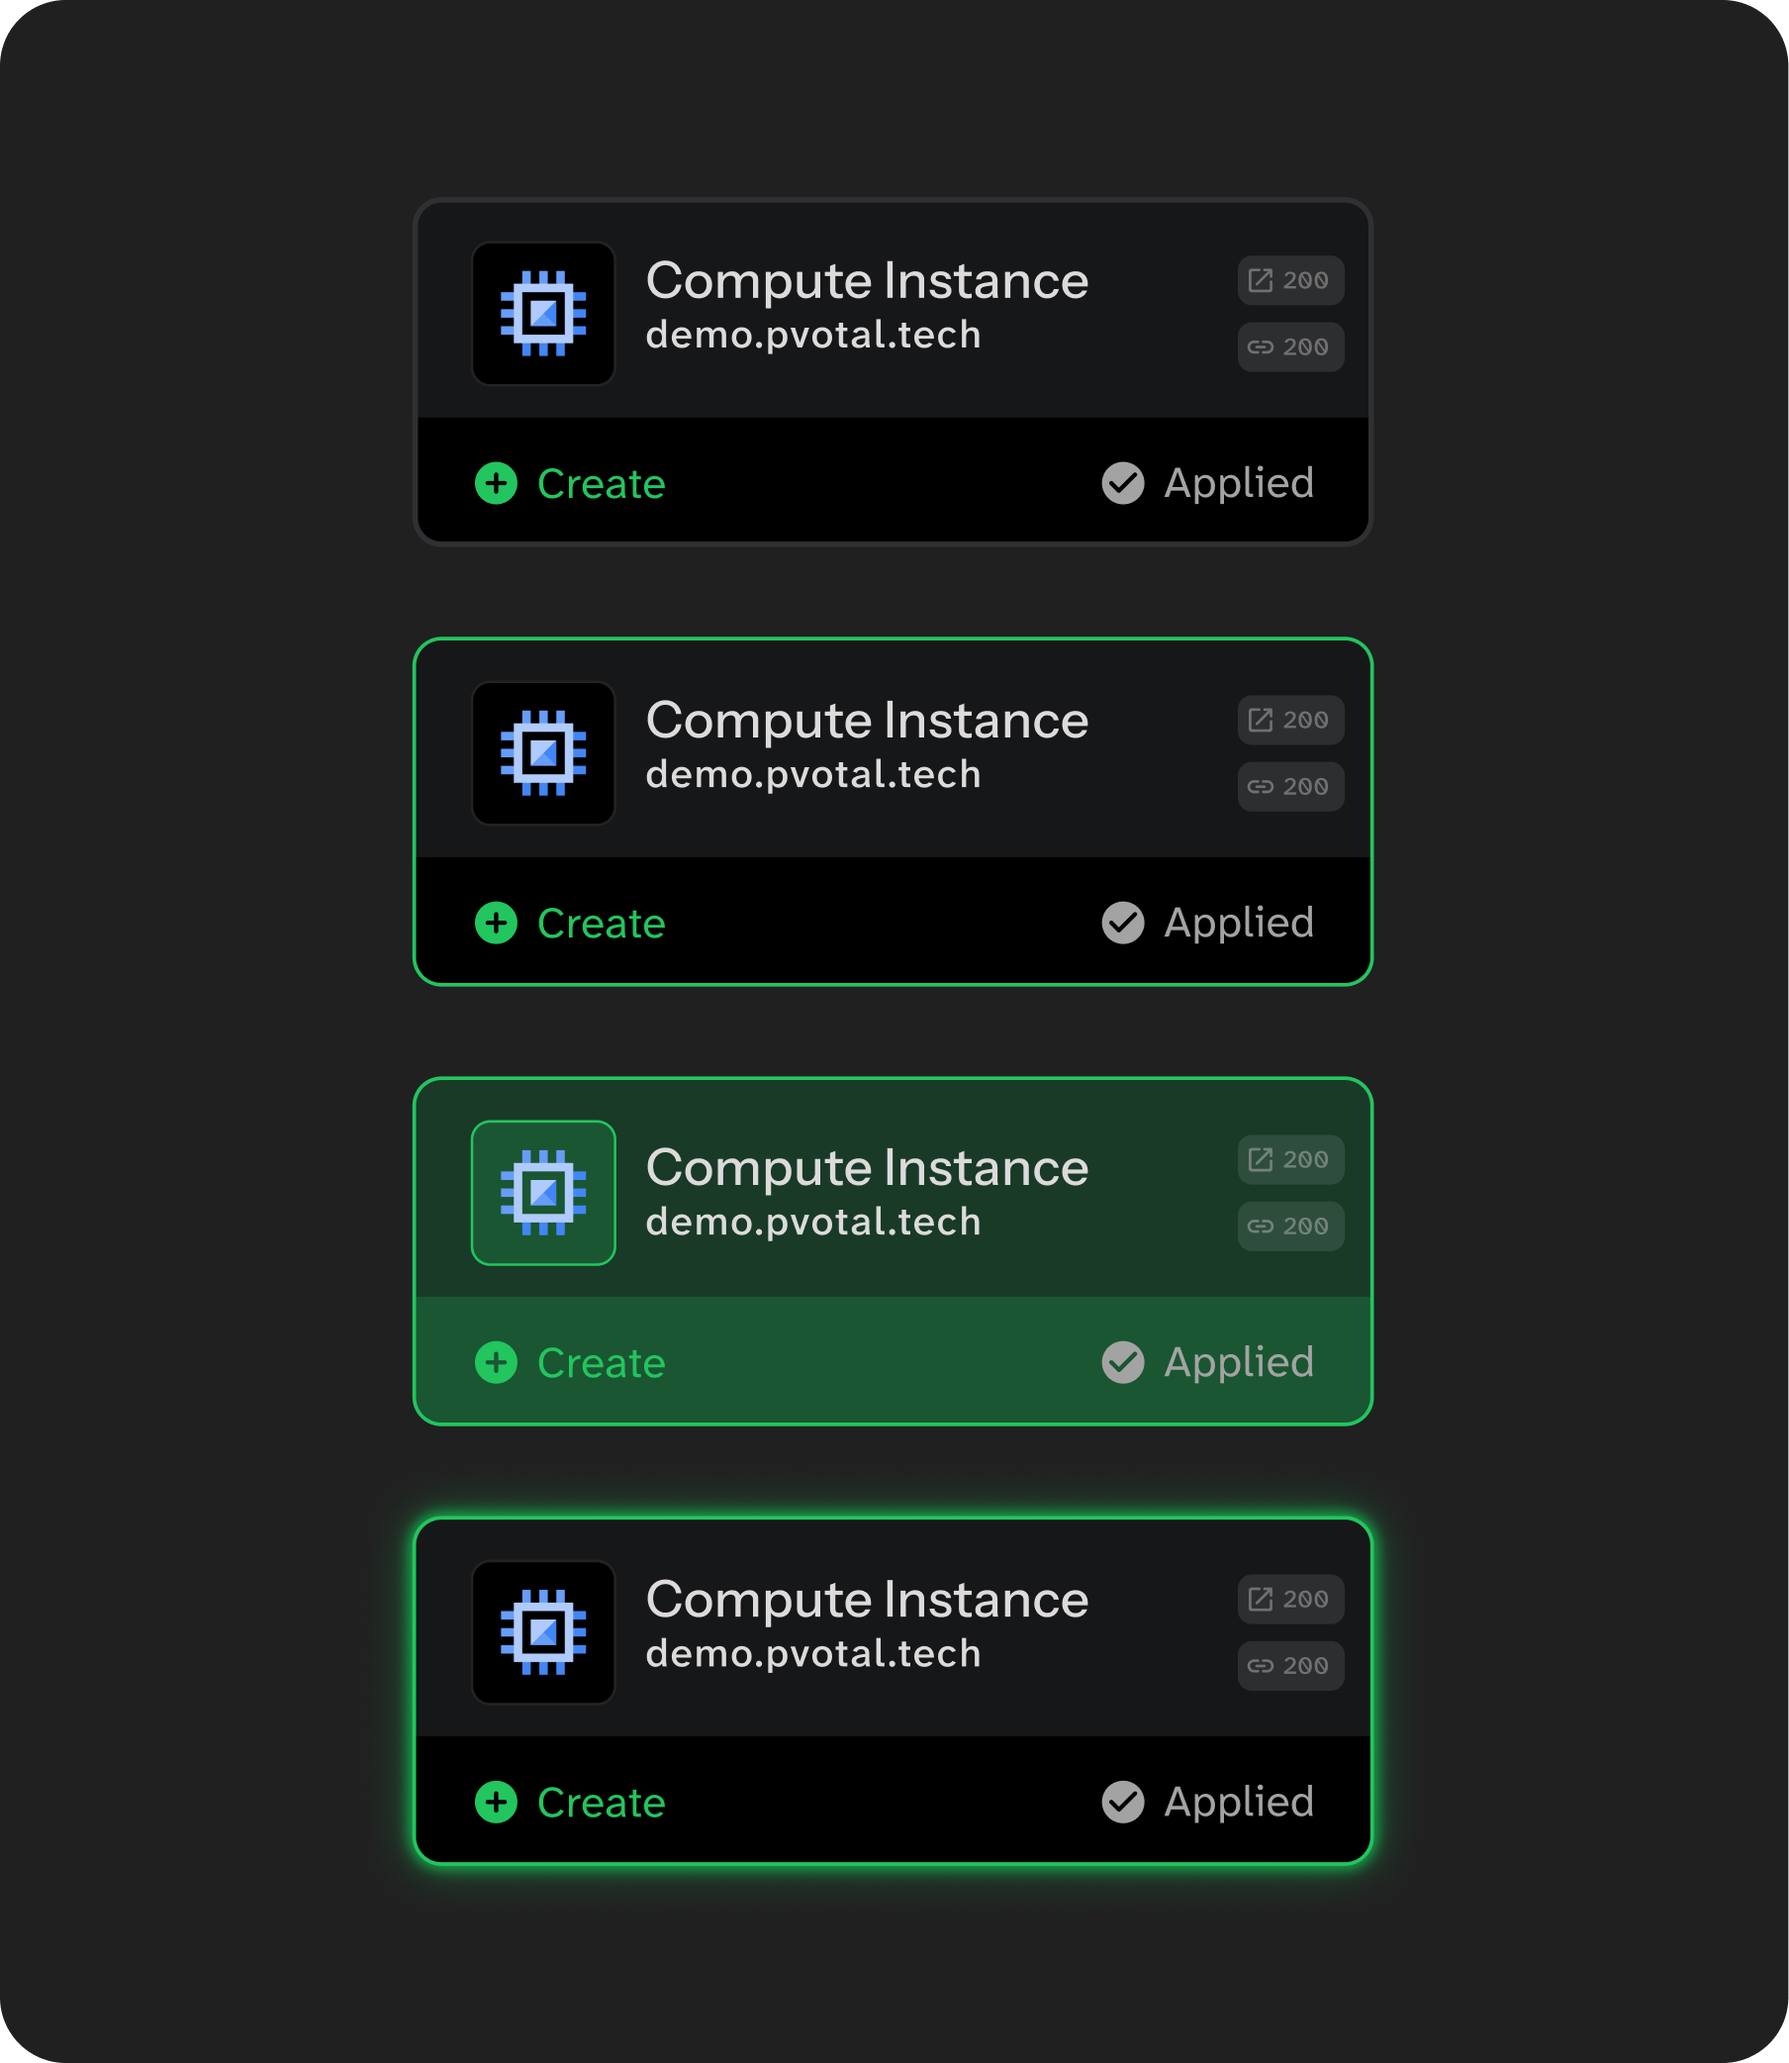
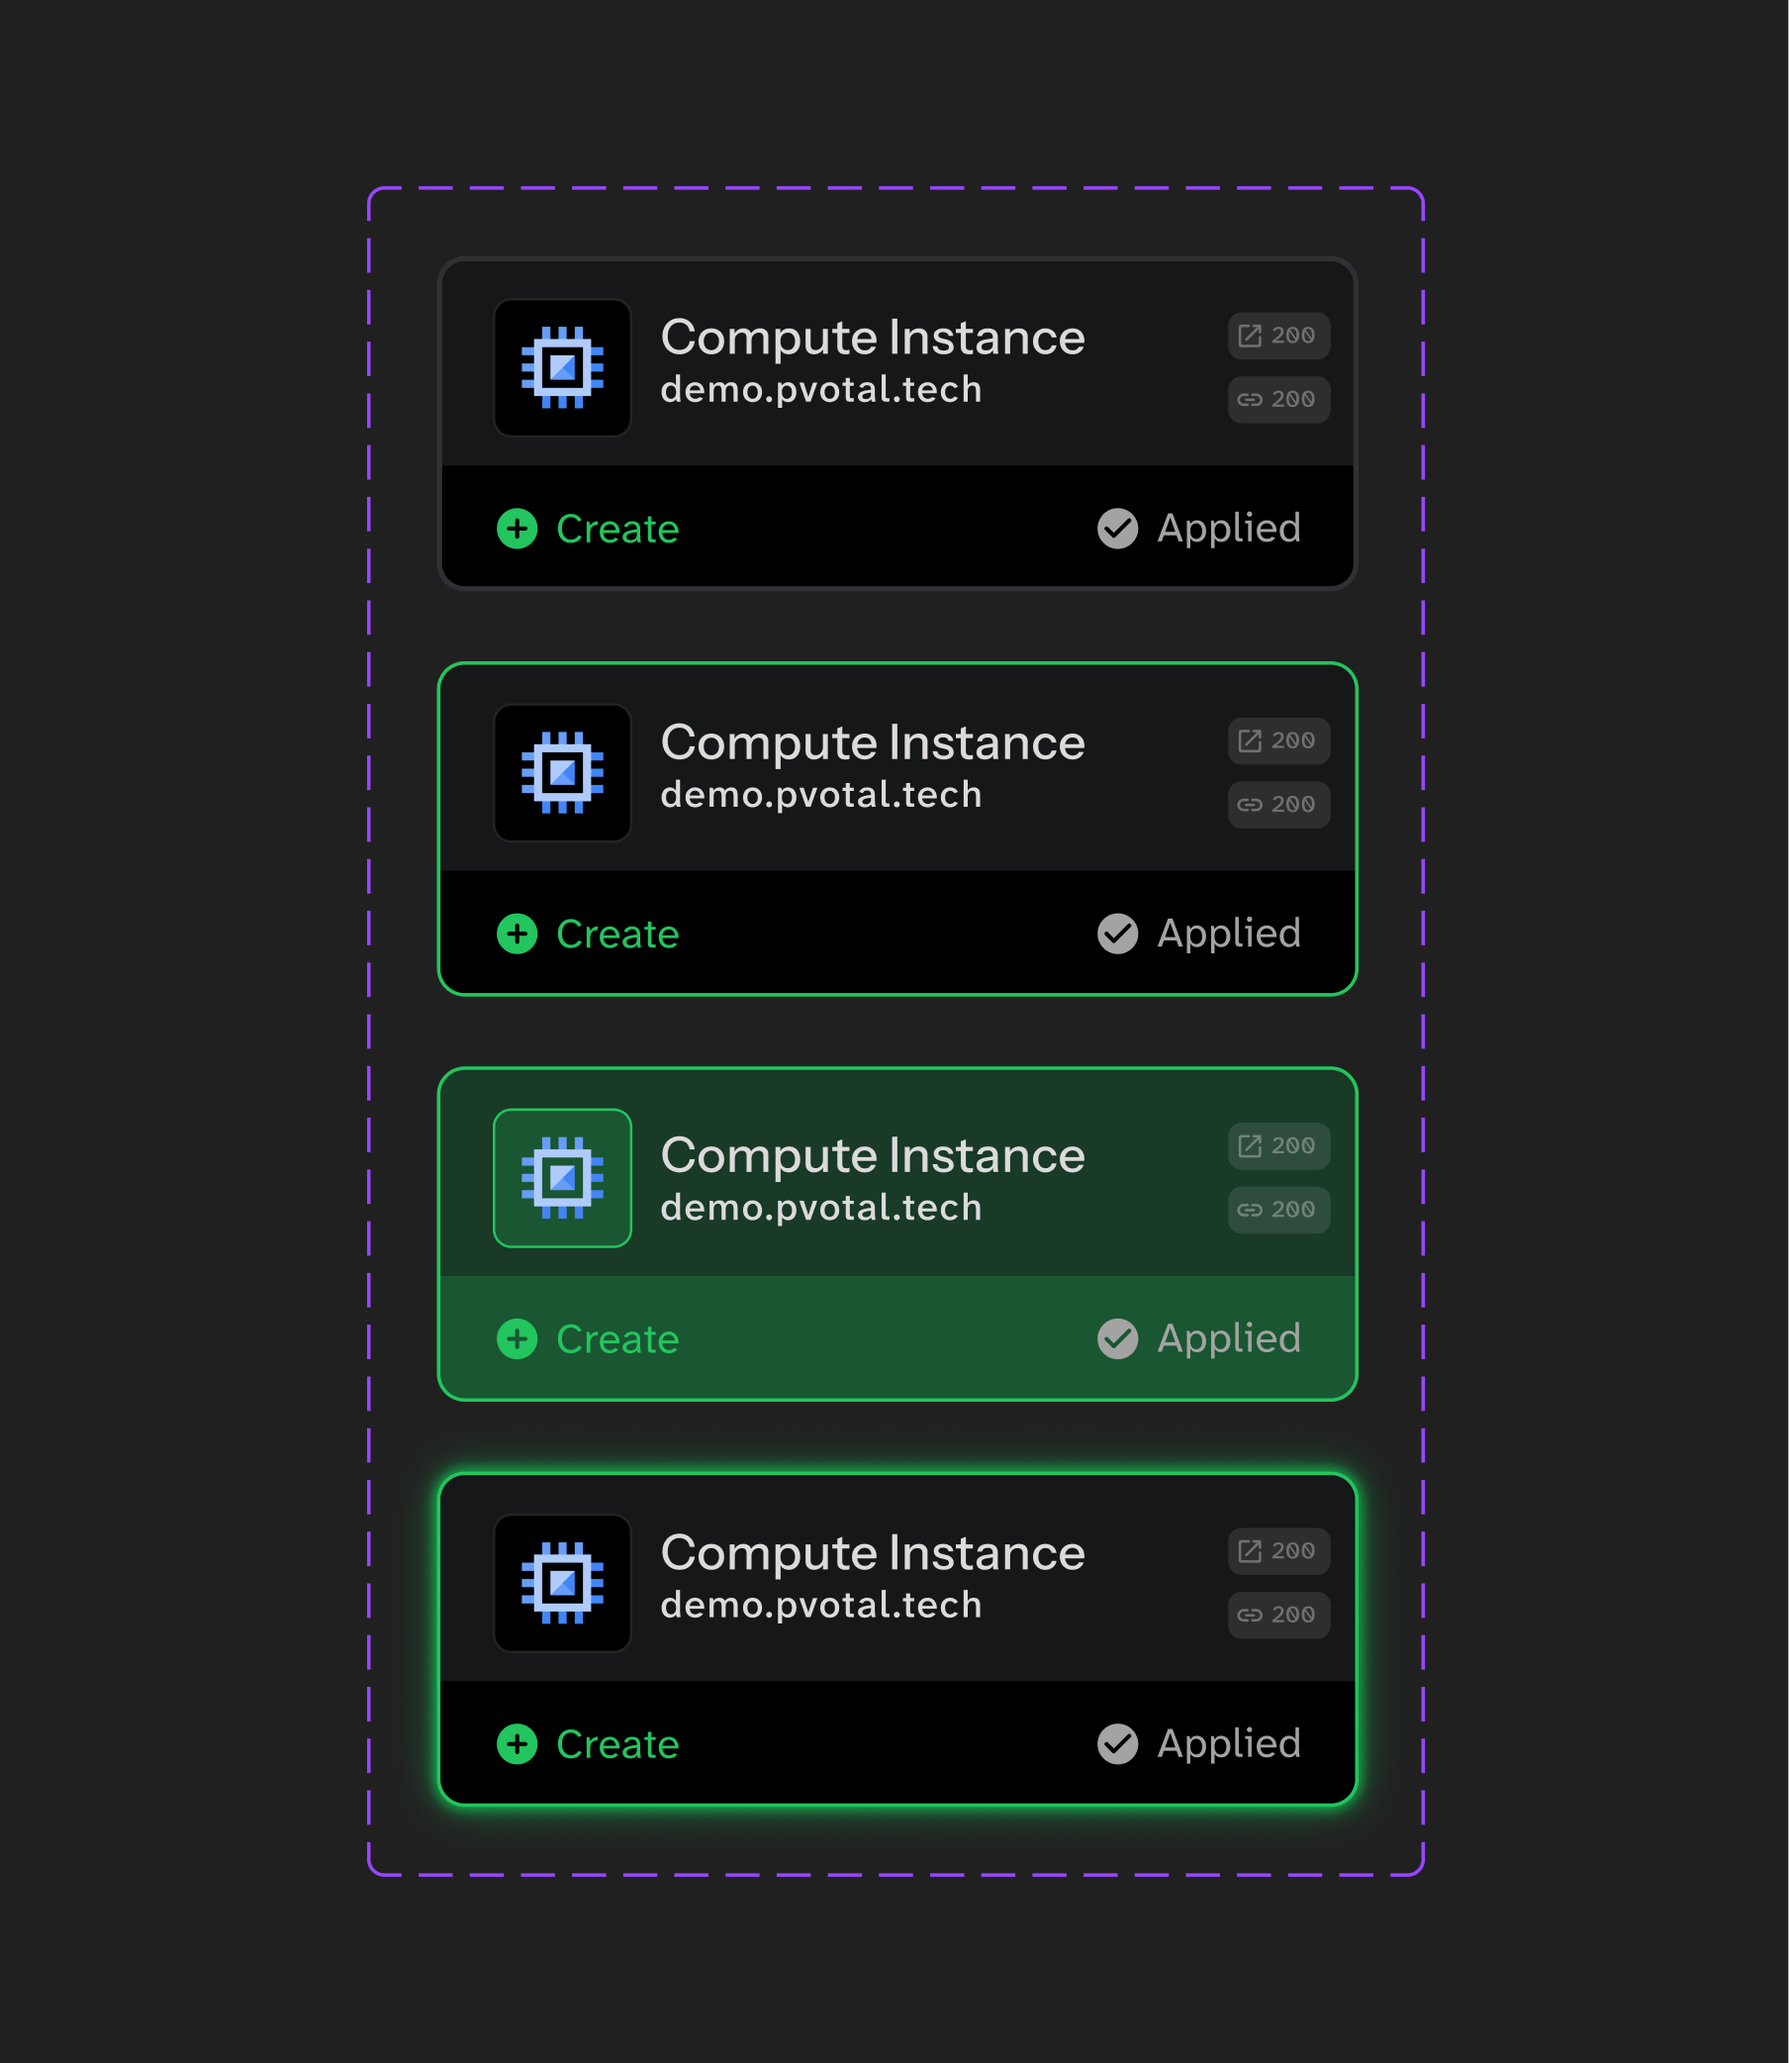
Update Infrastream UI System pair images
Replaces img-10a.png and img-10b.png with the updated Figma exports
(Compute Instance cards / Node Actions & Node Status panel).

diff --git a/work/infrastream.html b/work/infrastream.html
@@ -134,8 +134,8 @@
     </div>
 
     <div class="project-detail__pair">
-      <div class="project-detail__pair-item"><img src="../assets/images/infrastream/img-10a.png" alt="Infrastream UI component set, status labels"></div>
-      <div class="project-detail__pair-item"><img src="../assets/images/infrastream/img-10b.png" alt="Infrastream UI component set, log console"></div>
+      <div class="project-detail__pair-item"><img src="../assets/images/infrastream/img-10a.png" alt="Infrastream compute instance cards with create and applied states"></div>
+      <div class="project-detail__pair-item"><img src="../assets/images/infrastream/img-10b.png" alt="Infrastream node actions and node status UI component set"></div>
     </div>
 
     <div class="project-detail__img">
